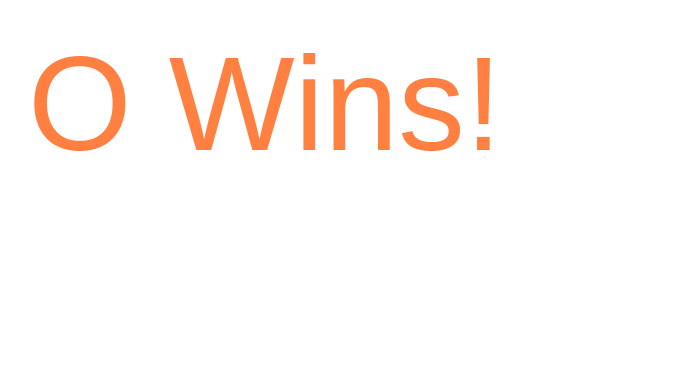
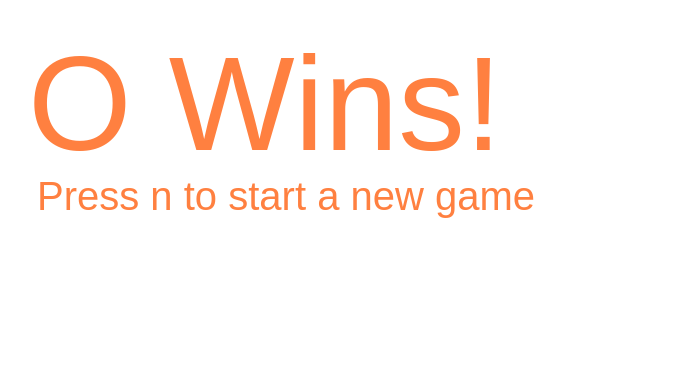
add ability to start new game, prevent extra input after game has been one

Changed region(s): [[0.0615, 0.4688, 0.7994, 0.5625]]

diff --git a/main.go b/main.go
@@ -133,46 +133,7 @@ func init() {
 		log.Fatal(err)
 	}
 
-	board = [9]Slot{
-		{
-			slotNumber: 0, isSelected: true, displayError: false, isXOrO: Niether,
-			possibleDirections: PossibleDirections{Up: false, Down: true, Left: false, Right: true},
-		},
-		{
-			slotNumber: 1, isSelected: false, displayError: false, isXOrO: Niether,
-			possibleDirections: PossibleDirections{Up: false, Down: true, Left: true, Right: true},
-		},
-		{
-			slotNumber: 2, isSelected: false, displayError: false, isXOrO: Niether,
-			possibleDirections: PossibleDirections{Up: false, Down: true, Left: true, Right: false},
-		},
-		{
-			slotNumber: 3, isSelected: false, displayError: false, isXOrO: Niether,
-			possibleDirections: PossibleDirections{Up: true, Down: true, Left: false, Right: true},
-		},
-		{
-			slotNumber: 4, isSelected: false, displayError: false, isXOrO: Niether,
-			possibleDirections: PossibleDirections{Up: true, Down: true, Left: true, Right: true},
-		},
-		{
-			slotNumber: 5, isSelected: false, displayError: false, isXOrO: Niether,
-			possibleDirections: PossibleDirections{Up: true, Down: true, Left: true, Right: false},
-		},
-		{
-			slotNumber: 6, isSelected: false, displayError: false, isXOrO: Niether,
-			possibleDirections: PossibleDirections{Up: true, Down: false, Left: false, Right: true},
-		},
-		{
-			slotNumber: 7, isSelected: false, displayError: false, isXOrO: Niether,
-			possibleDirections: PossibleDirections{Up: true, Down: false, Left: true, Right: true},
-		},
-		{
-			slotNumber: 8, isSelected: false, displayError: false, isXOrO: Niether,
-			possibleDirections: PossibleDirections{Up: true, Down: false, Left: true, Right: false},
-		},
-	}
-
-	winner = Niether
+	startNewGame()
 }
 
 type Game struct{}
@@ -194,8 +155,12 @@ func (g *Game) Update() error {
 		moveIfPossible(Up)
 	}
 
-	if inpututil.IsKeyJustPressed(ebiten.KeyEnter) {
+	if repeatingKeyPressed(ebiten.KeyEnter) && winner == Niether {
 		attemptSlotSelection()
+	}
+
+	if repeatingKeyPressed(ebiten.KeyN) && winner != Niether {
+		startNewGame()
 	}
 
 	return nil
@@ -275,6 +240,50 @@ func setupTurnForNextUser() {
 		board[i].isSelected = false
 		board[i].displayError = false
 	}
+}
+
+func startNewGame() {
+	board = [9]Slot{
+		{
+			slotNumber: 0, isSelected: true, displayError: false, isXOrO: Niether,
+			possibleDirections: PossibleDirections{Up: false, Down: true, Left: false, Right: true},
+		},
+		{
+			slotNumber: 1, isSelected: false, displayError: false, isXOrO: Niether,
+			possibleDirections: PossibleDirections{Up: false, Down: true, Left: true, Right: true},
+		},
+		{
+			slotNumber: 2, isSelected: false, displayError: false, isXOrO: Niether,
+			possibleDirections: PossibleDirections{Up: false, Down: true, Left: true, Right: false},
+		},
+		{
+			slotNumber: 3, isSelected: false, displayError: false, isXOrO: Niether,
+			possibleDirections: PossibleDirections{Up: true, Down: true, Left: false, Right: true},
+		},
+		{
+			slotNumber: 4, isSelected: false, displayError: false, isXOrO: Niether,
+			possibleDirections: PossibleDirections{Up: true, Down: true, Left: true, Right: true},
+		},
+		{
+			slotNumber: 5, isSelected: false, displayError: false, isXOrO: Niether,
+			possibleDirections: PossibleDirections{Up: true, Down: true, Left: true, Right: false},
+		},
+		{
+			slotNumber: 6, isSelected: false, displayError: false, isXOrO: Niether,
+			possibleDirections: PossibleDirections{Up: true, Down: false, Left: false, Right: true},
+		},
+		{
+			slotNumber: 7, isSelected: false, displayError: false, isXOrO: Niether,
+			possibleDirections: PossibleDirections{Up: true, Down: false, Left: true, Right: true},
+		},
+		{
+			slotNumber: 8, isSelected: false, displayError: false, isXOrO: Niether,
+			possibleDirections: PossibleDirections{Up: true, Down: false, Left: true, Right: false},
+		},
+	}
+
+	winner = Niether
+	whosTurn = IsX
 }
 
 func (g *Game) Draw(screen *ebiten.Image) {
